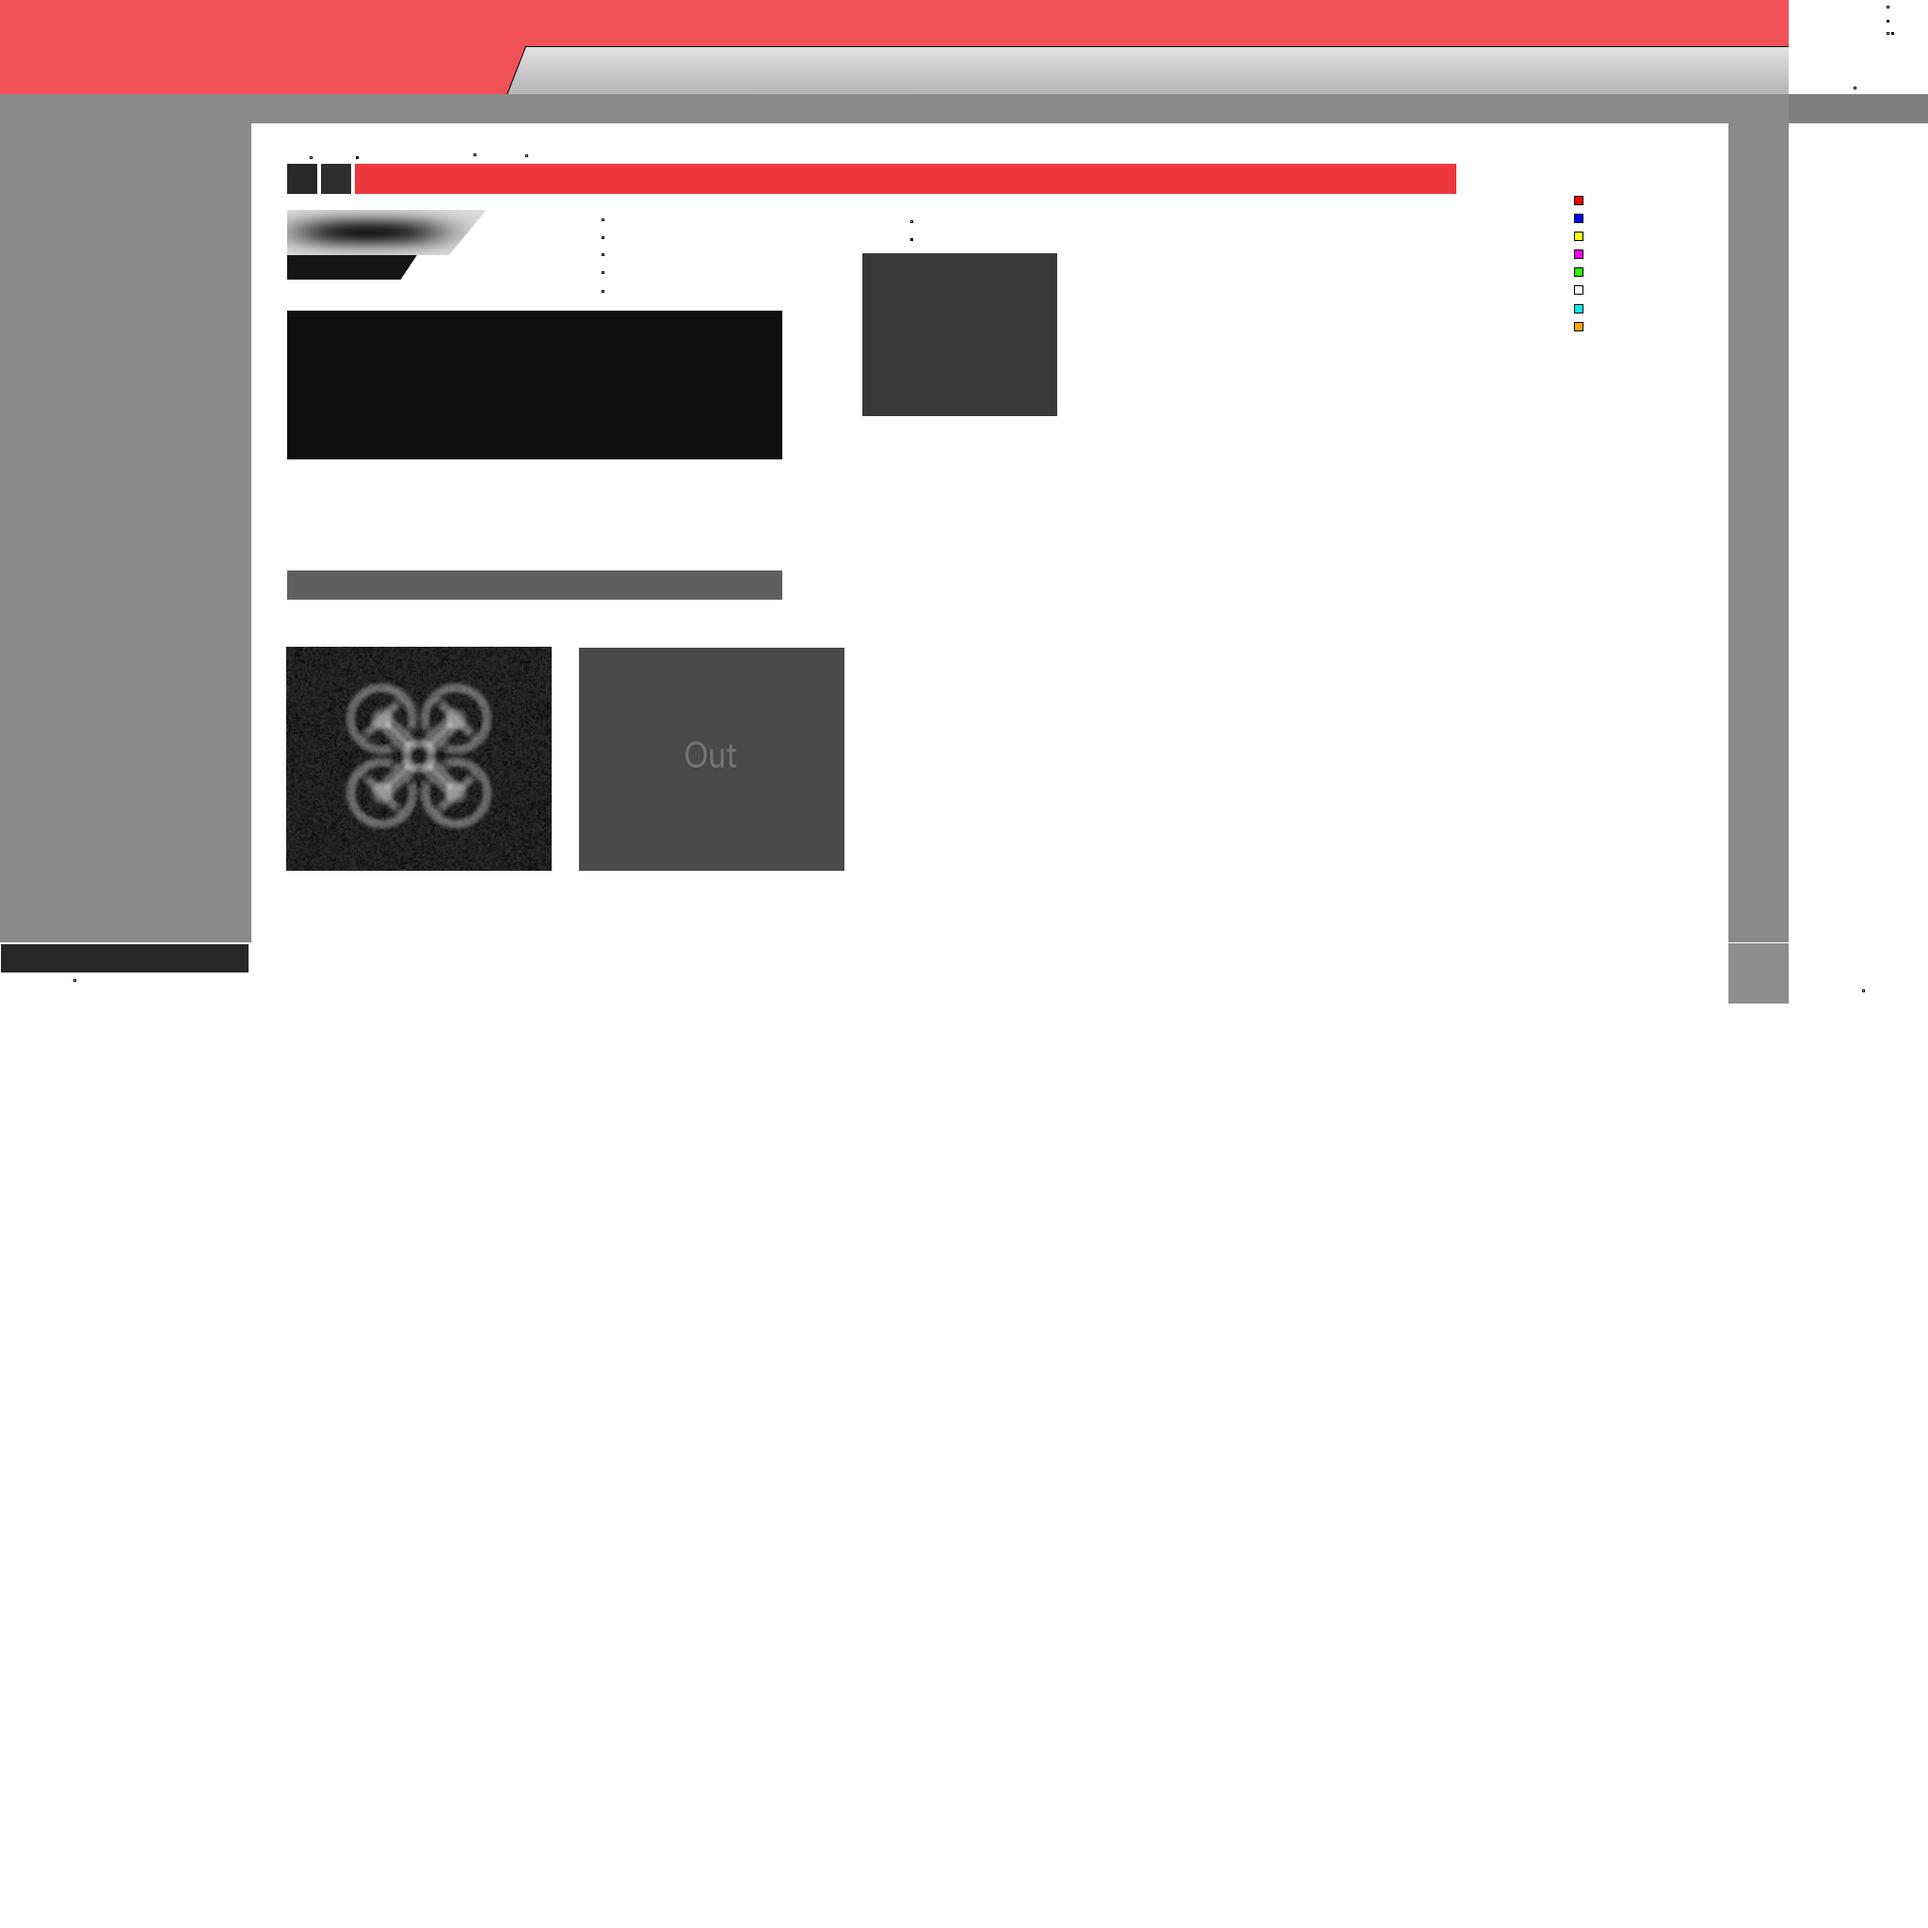
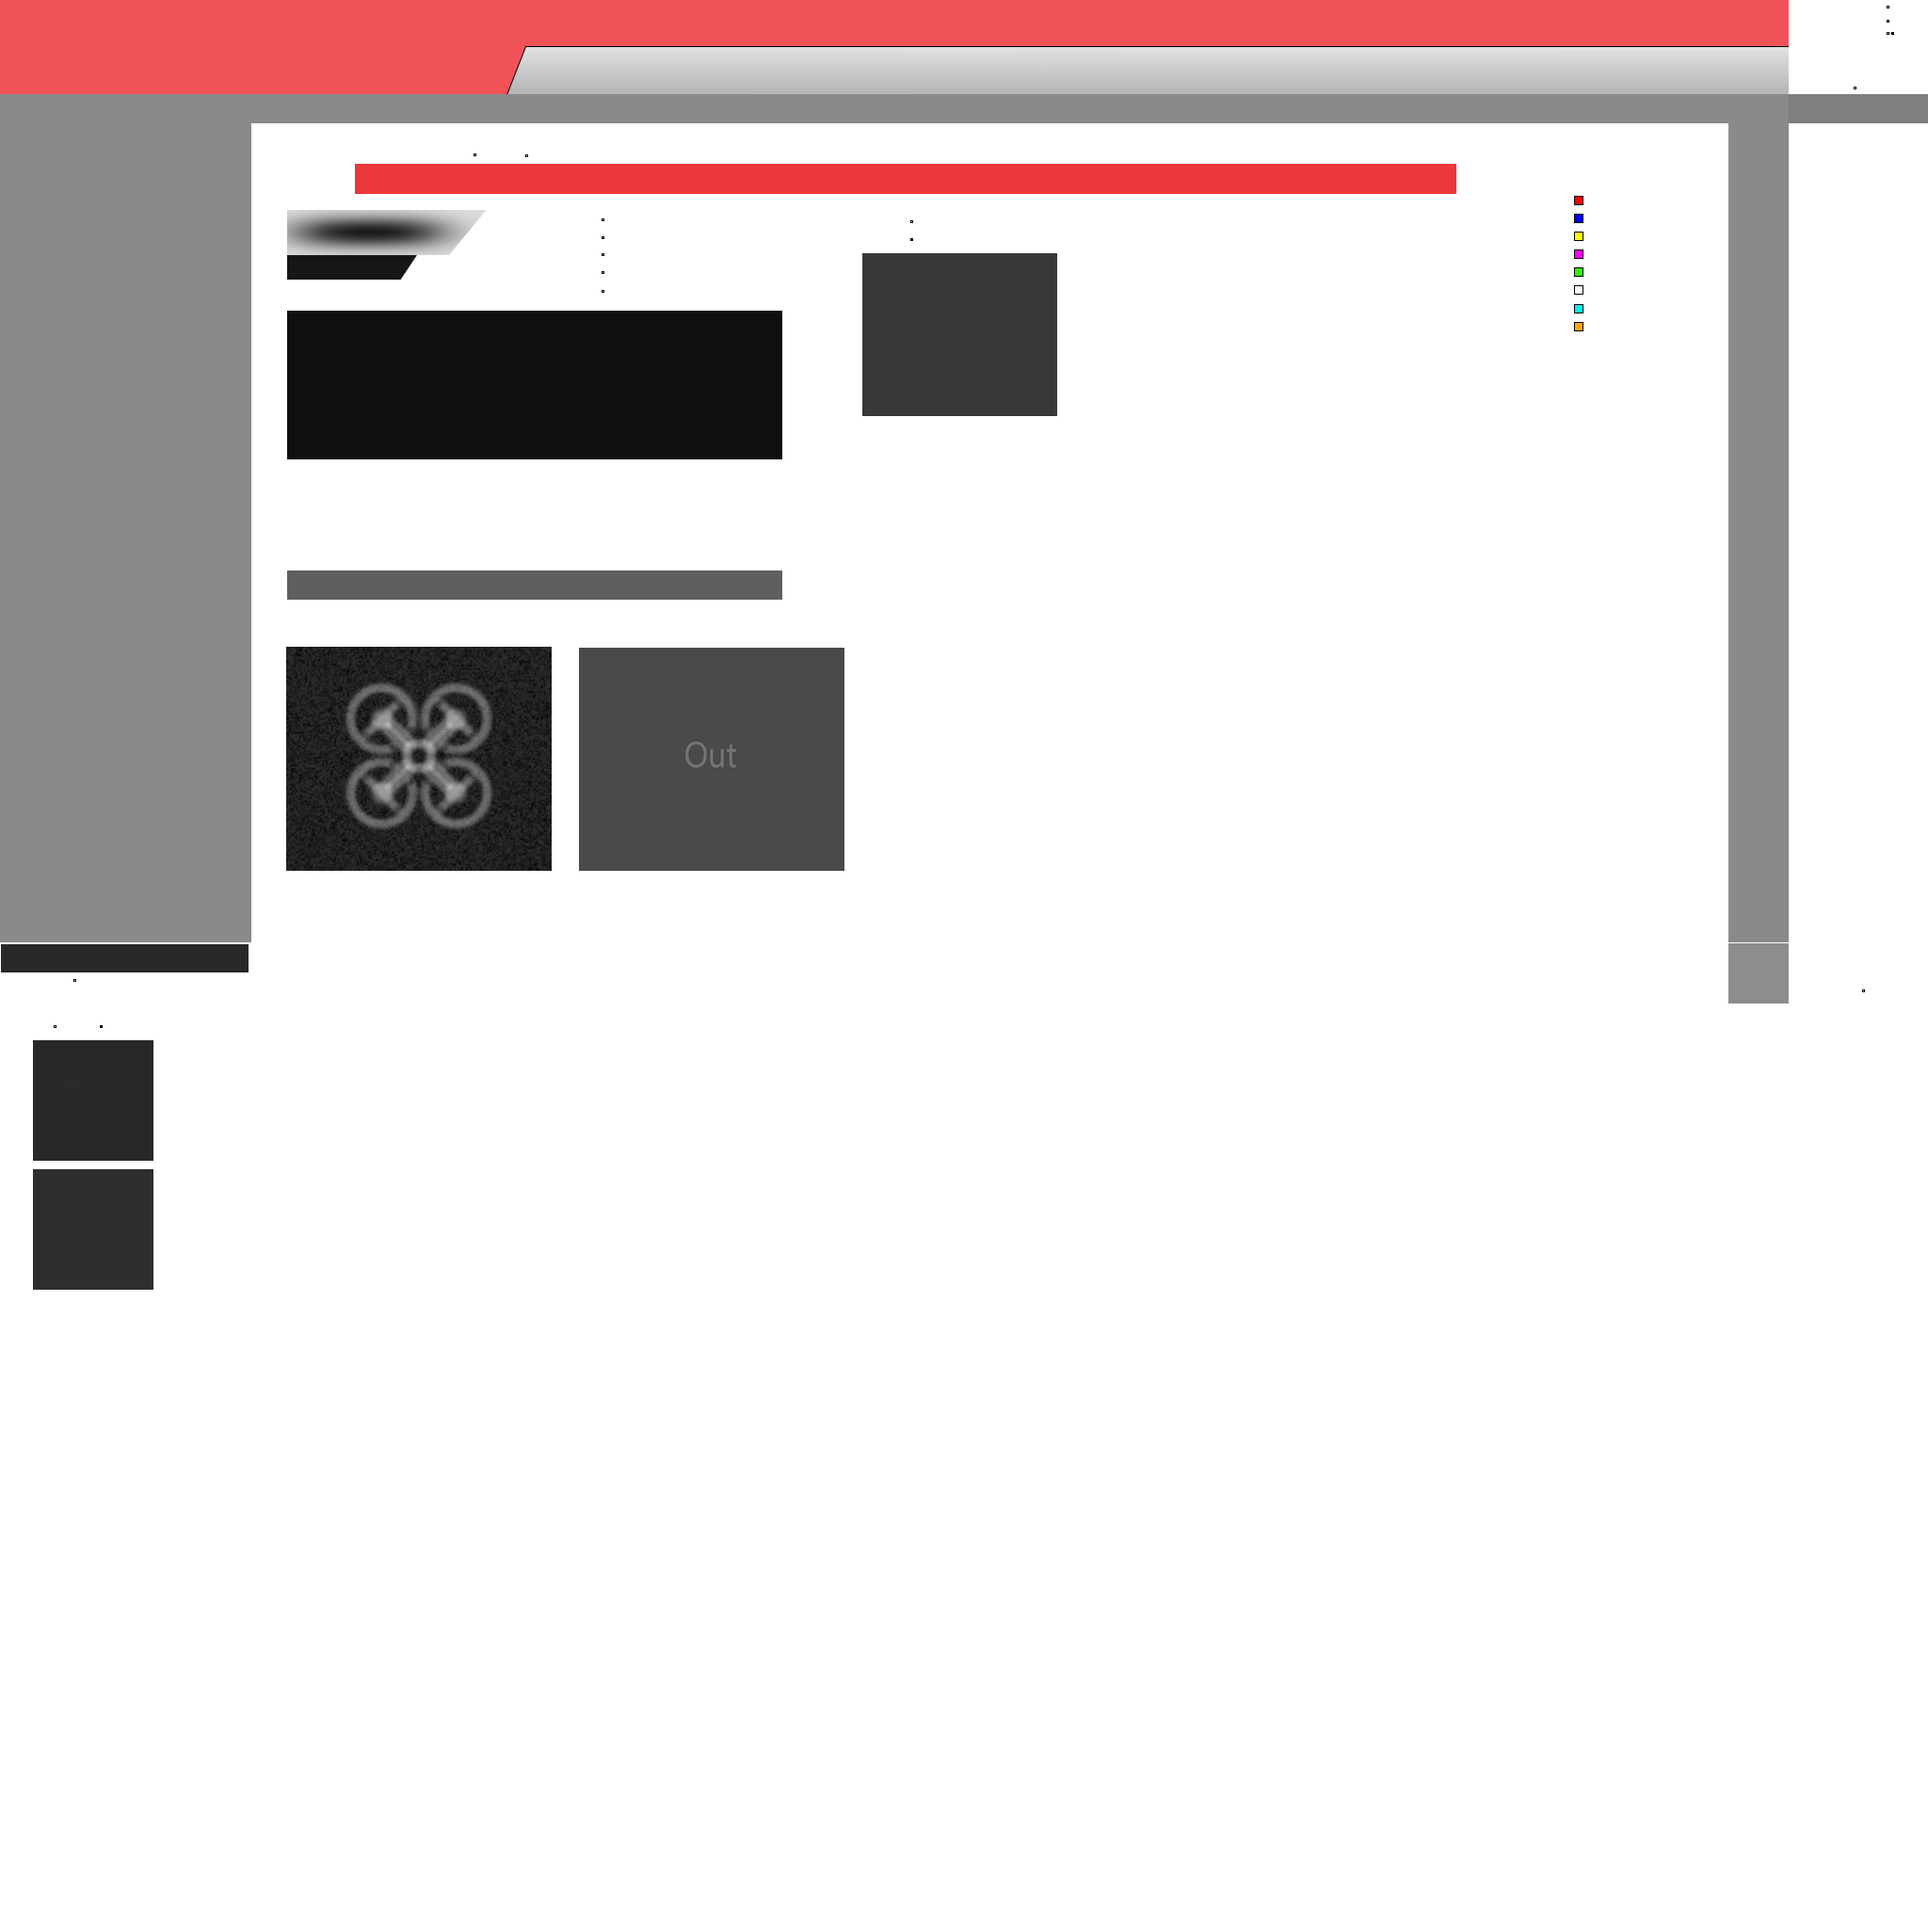
reodering ok cancel again. Fixing some discovered theme issues.

Changed region(s): [[0.0, 0.5312, 0.0938, 0.6875], [0.1562, 0.0625, 0.1875, 0.125]]

diff --git a/Compositor/Layers/PopupLayer.cs b/Compositor/Layers/PopupLayer.cs
@@ -31,15 +31,20 @@ namespace Composition.Layers
 
         private MenuLayer menuLayer;
 
-        public Color PopupBackground { get { if (menuLayer == null) { menuLayer = LayerStack.GetLayer<MenuLayer>(); } return menuLayer.Background; } }
-        public Color PopupButtonBackground { get { return menuLayer.DisabledText; } }
-        public Color PopupHover { get { return menuLayer.Hover; } }
-        public Color PopupText { get { return menuLayer.Text; } }
+        public Color PopupBackground { get; set; }
+        public Color PopupButtonBackground { get; set; }
+        public Color PopupHover { get; set; }
+        public Color PopupText { get; set; }
 
 
-        public PopupLayer(GraphicsDevice device) 
+        public PopupLayer(GraphicsDevice device, Color bg, Color buttonbg, Color hover, Color text) 
             : base(device)
         {
+            PopupBackground = bg;
+            PopupButtonBackground = buttonbg;
+            PopupHover = hover;
+            PopupText = text;
+
             background = new PopupBackgroundNode();
             Root.AddChild(background);
         }

diff --git a/WindowsPlatform/LayerStackForm.cs b/WindowsPlatform/LayerStackForm.cs
@@ -63,7 +63,7 @@ namespace WindowsPlatform
             CompositorLayer = new CompositorLayer(graphicsDevice);
             LayerStack.Add(CompositorLayer);
 
-            PopupLayer popupLayer = new PopupLayer(graphicsDevice);
+            PopupLayer popupLayer = new PopupLayer(graphicsDevice, Theme.Current.Editor.Background.XNA, Theme.Current.Editor.Foreground.XNA, Theme.Current.Hover.XNA, Theme.Current.Editor.Text.XNA);
             MenuLayer menuLayer = new MenuLayer(graphicsDevice, Theme.Current.MenuBackground.XNA, Theme.Current.Hover.XNA, Theme.Current.MenuText.XNA, Theme.Current.MenuTextInactive.XNA, Theme.Current.ScrollBar.XNA);
             DragLayer dragLayer = new DragLayer(graphicsDevice);
 

diff --git a/UI/BaseGame.cs b/UI/BaseGame.cs
@@ -172,7 +172,7 @@ namespace UI
             loadingLayer = new LoadingLayer(GraphicsDevice);
             loadingLayer.BlockOnLoading = true;
 
-            PopupLayer popupLayer = new PopupLayer(GraphicsDevice);
+            PopupLayer popupLayer = new PopupLayer(GraphicsDevice, Theme.Current.Editor.Background.XNA, Theme.Current.Editor.Foreground.XNA, Theme.Current.Hover.XNA, Theme.Current.Editor.Text.XNA);
             Popuper.PopupProvider = popupLayer;
 
             MenuLayer menuLayer = new MenuLayer(GraphicsDevice, Theme.Current.MenuBackground.XNA, Theme.Current.Hover.XNA, Theme.Current.MenuText.XNA, Theme.Current.MenuTextInactive.XNA, Theme.Current.ScrollBar.XNA);

diff --git a/Compositor/Nodes/PopupNodes.cs b/Compositor/Nodes/PopupNodes.cs
@@ -117,7 +117,7 @@ namespace Composition.Nodes
 
             buttonsContainer.AddChild(CancelButton);
 
-            AlignHorizontally(0.1f, OKButton, CancelButton);
+            AlignHorizontally(0.1f, CancelButton, OKButton);
 
             CancelButton.OnClick += (n) => { Cancel(); };
         }
